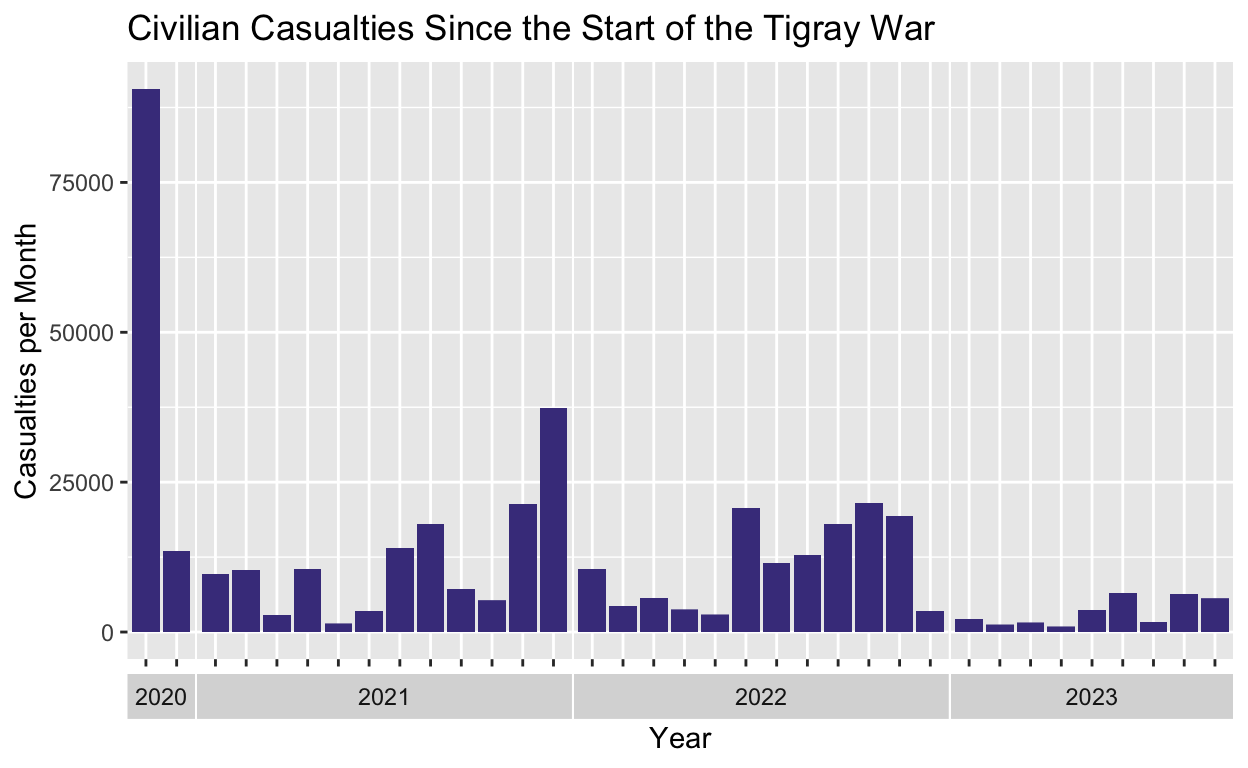
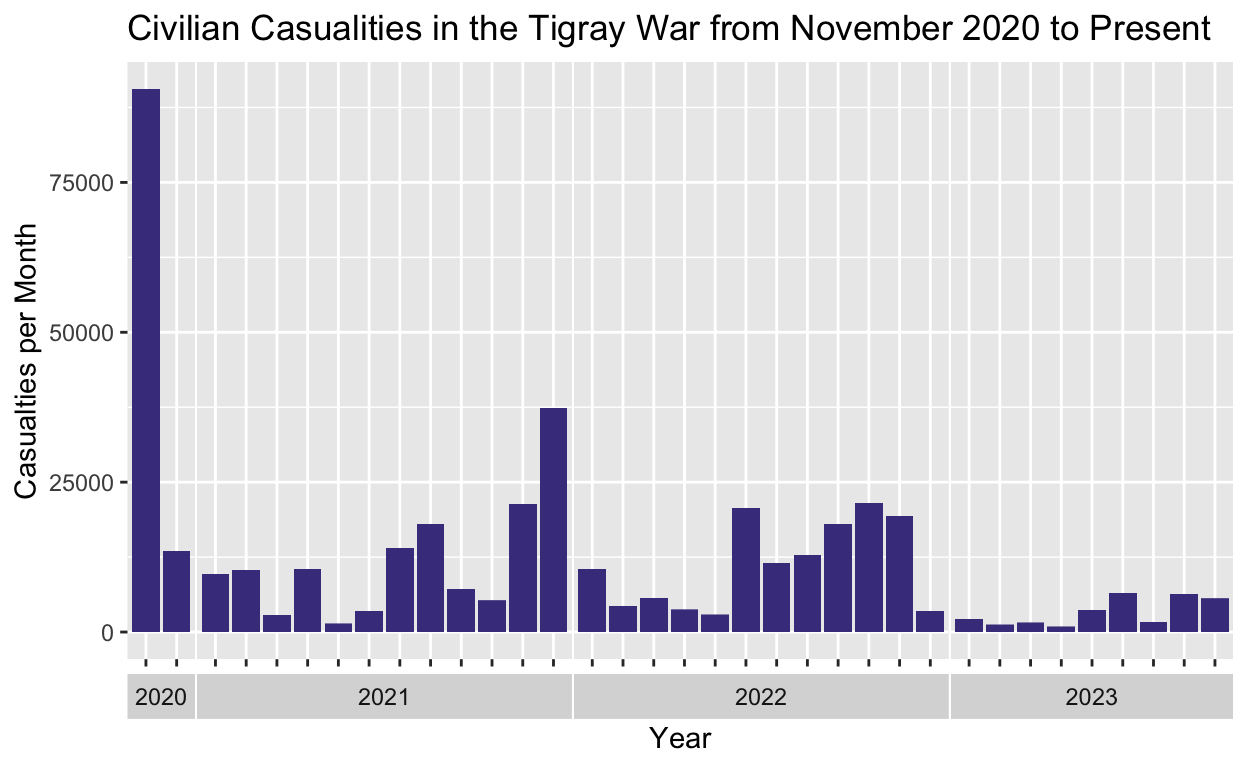
Second website attempt (graph wasn't showing up)

Changed region(s): [[0.2812, 0.0, 0.9688, 0.0625]]

diff --git a/index.html b/index.html
@@ -1558,7 +1558,7 @@ code span.wa { color: #5e5e5e; font-style: italic; } /* Warning */
 <span>  <span class='fu'><a href='https://ggplot2.tidyverse.org/reference/labs.html'>labs</a></span><span class='op'>(</span></span>
 <span>    x <span class='op'>=</span> <span class='st'>"Year"</span>,</span>
 <span>    y <span class='op'>=</span> <span class='st'>"Casualties per Month"</span>,</span>
-<span>    title <span class='op'>=</span> <span class='st'>"Civilian Casualties Since the Start of the Tigray War"</span><span class='op'>)</span></span>
+<span>    title <span class='op'>=</span> <span class='st'>"Civilian Casualities in the Tigray War from November 2020 to Present"</span><span class='op'>)</span></span>
 <span><span class='va'>civilian_violence_plot</span></span></code></pre>
 </div>
 <p><img src="index_files/figure-html5/unnamed-chunk-1-1.png" width="624" /></p>
